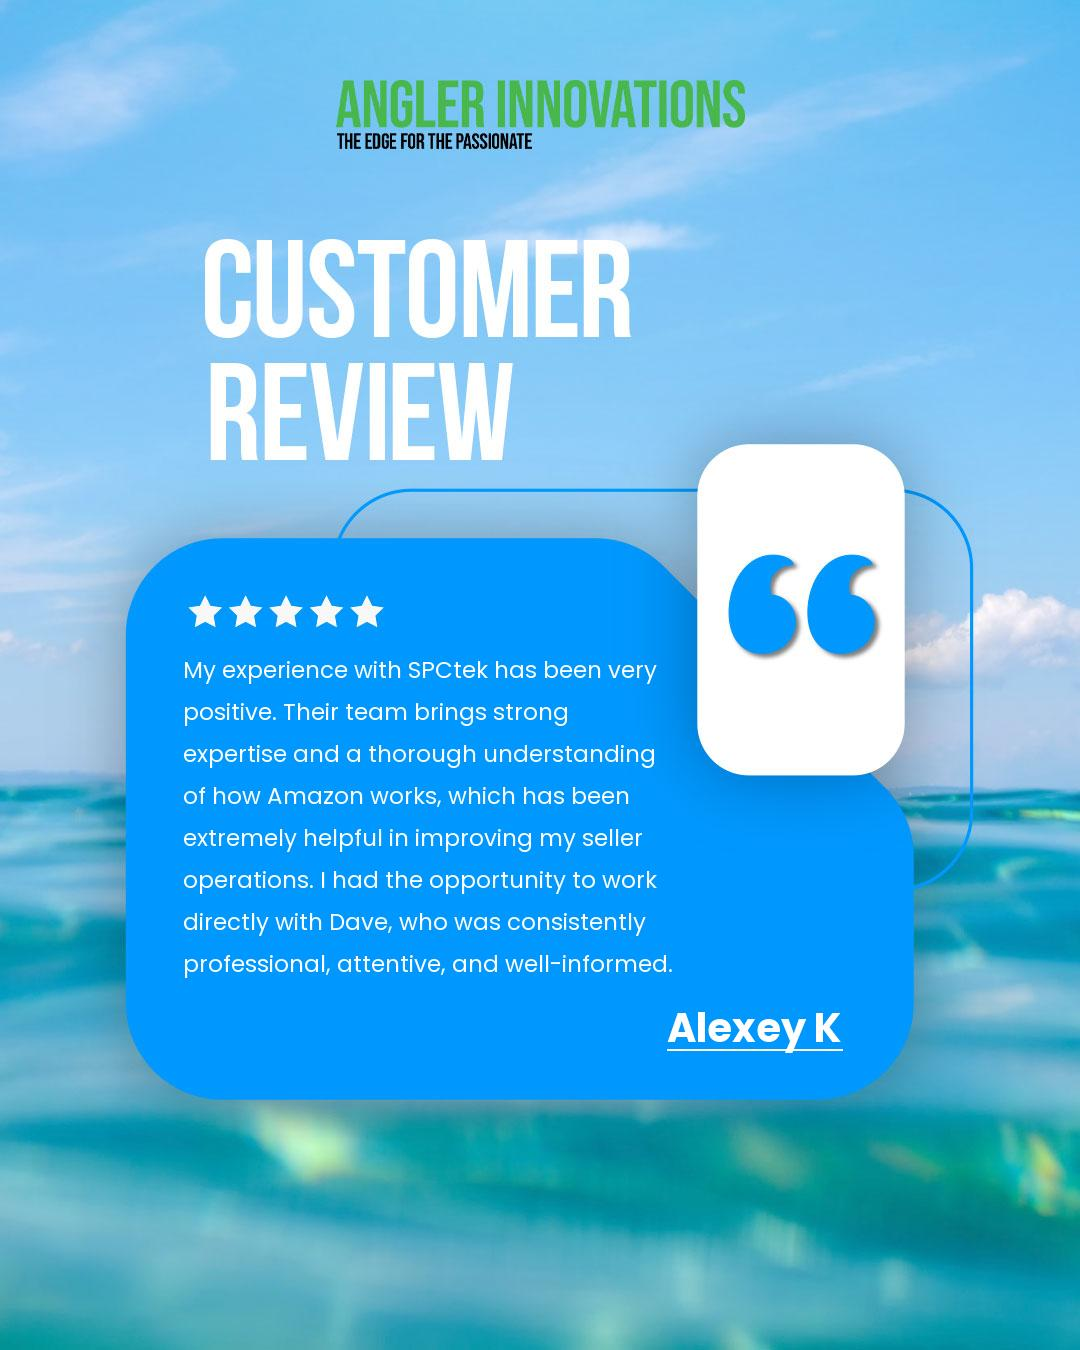
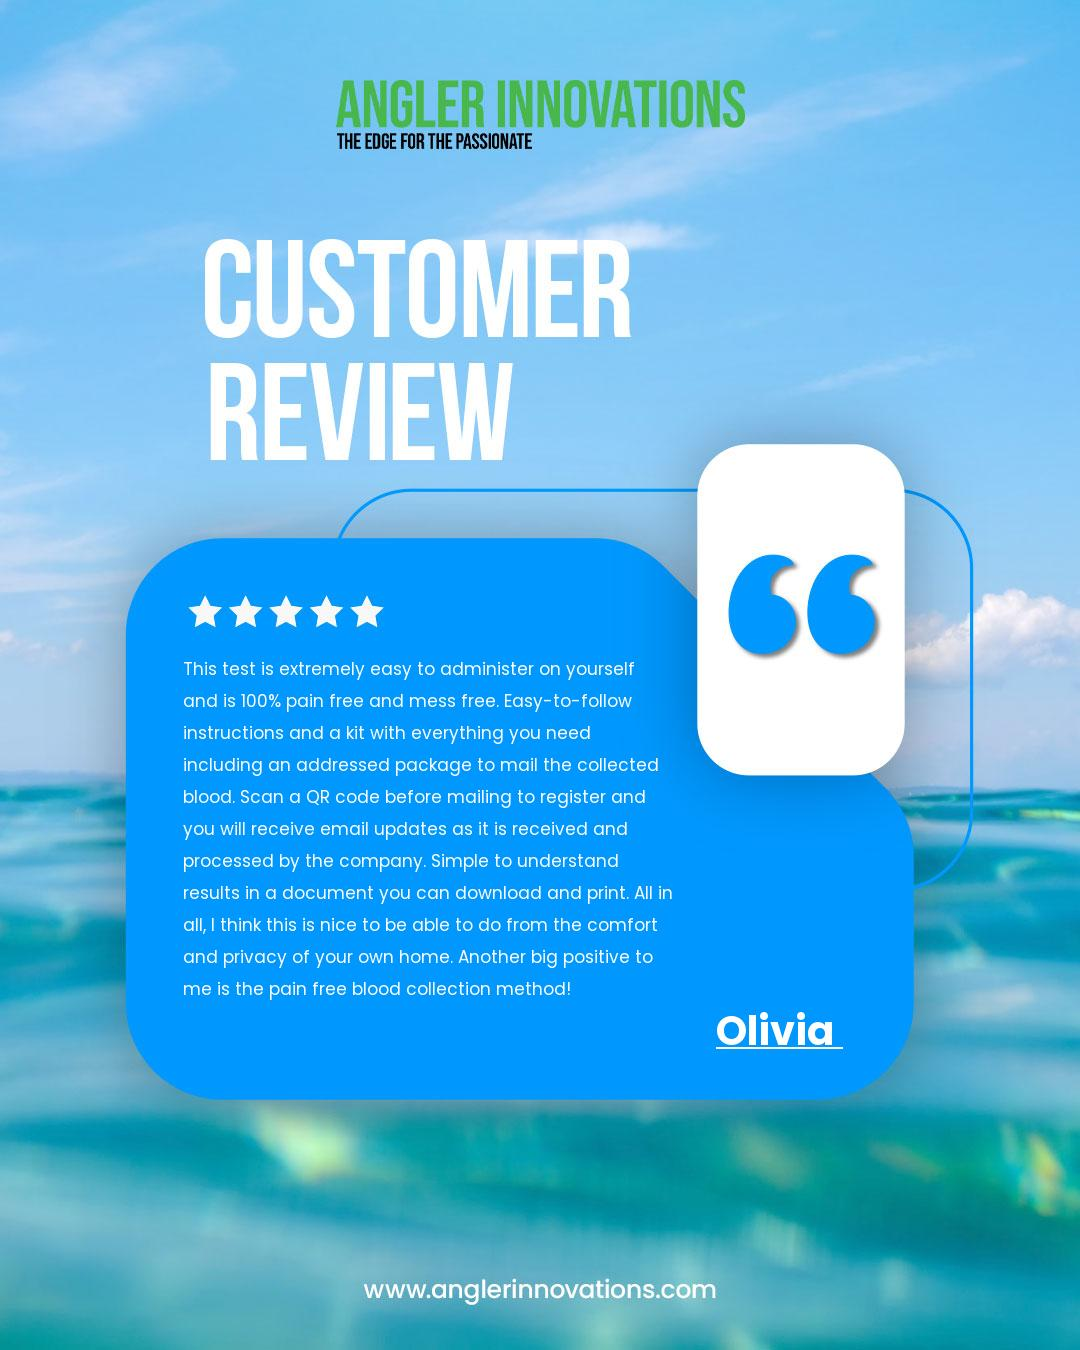
Fixed Underline

Changed region(s): [[0.1528, 0.4667, 0.6111, 0.7467], [0.3361, 0.9333, 0.6722, 0.9644], [0.6111, 0.7467, 0.7944, 0.7778]]

diff --git a/replace_text.py b/replace_text.py
@@ -584,8 +584,8 @@ def render_dynamic_text(
 
                 if bool(segment.get("underline", False)):
                     ux = x + pad_x
-                    uy = y + text_h - max(1, int(size * 0.12))
-                    line_w = max(1, int(size / 14))
+                    uy = y + text_h + max(1, int(size * 0.06))
+                    line_w = max(1, int(size / 16))
                     draw.line((ux, uy, ux + text_w, uy), fill=highlight_text_color, width=line_w)
 
                 x += text_w + 2 * pad_x
@@ -605,8 +605,8 @@ def render_dynamic_text(
 
                 if bool(segment.get("underline", False)):
                     ux = x
-                    uy = y + text_h - max(1, int(size * 0.12))
-                    line_w = max(1, int(size / 14))
+                    uy = y + text_h + max(1, int(size * 0.06))
+                    line_w = max(1, int(size / 16))
                     draw.line((ux, uy, ux + text_w, uy), fill=text_color, width=line_w)
 
                 x += text_w
